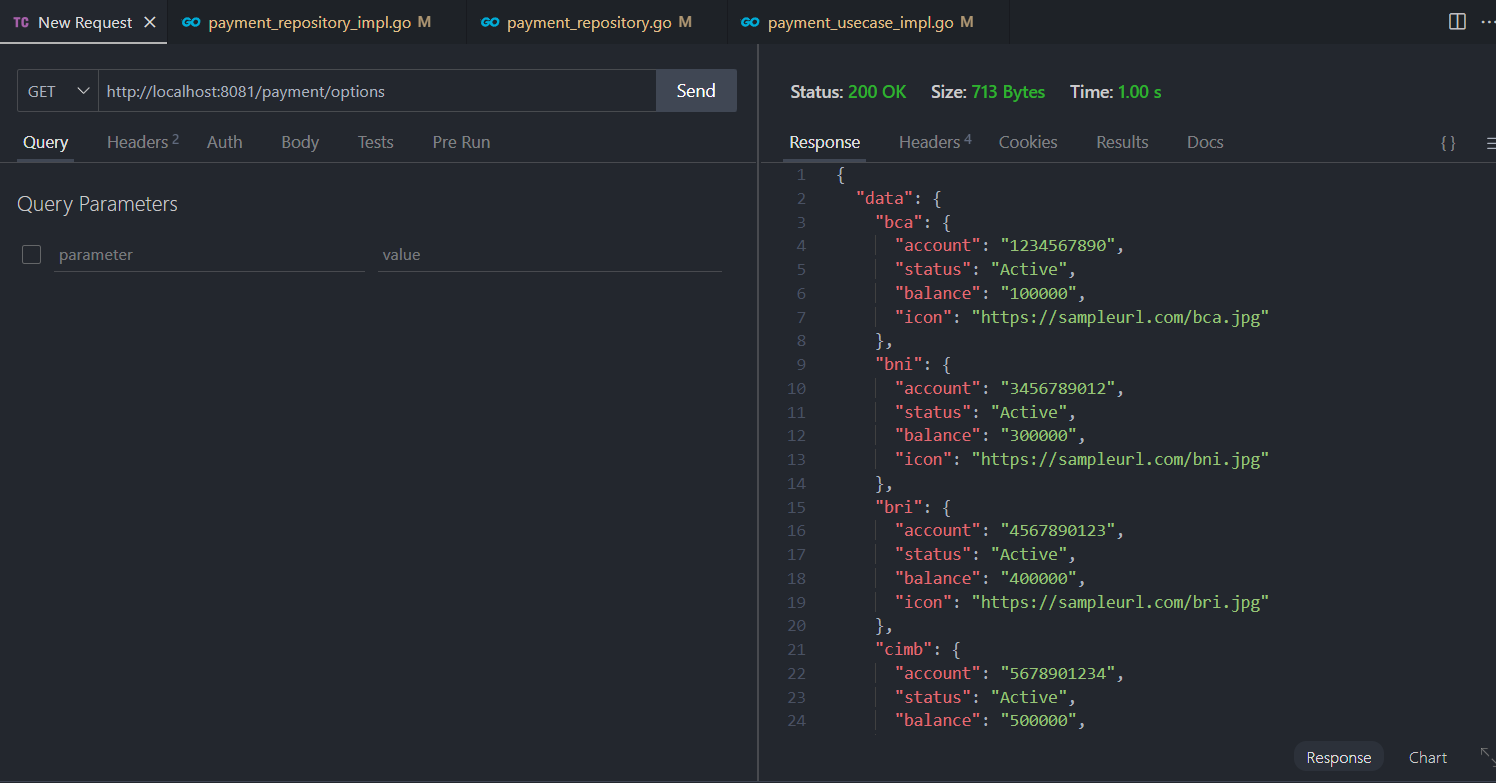
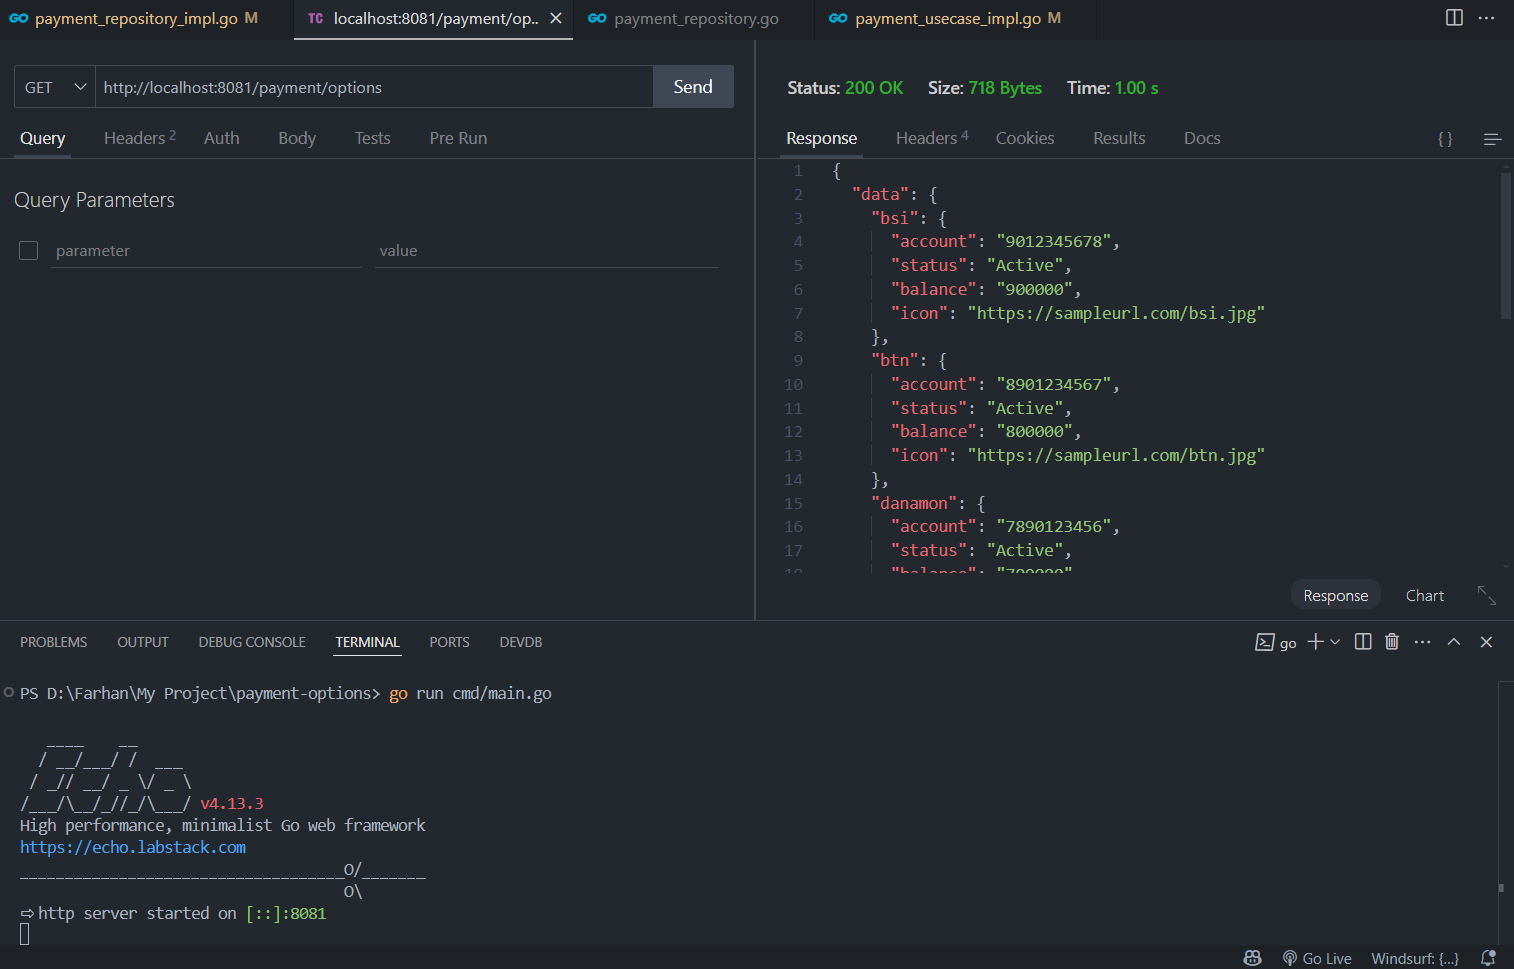
perbaikan

diff --git a/internal/repository/payment_repository_impl.go b/internal/repository/payment_repository_impl.go
@@ -12,7 +12,7 @@ func NewPaymentRepo() PaymentRepository {
 }
 
 func (r *paymentRepo) CallDanamon() models.PaymentMethod {
-	
+	time.Sleep(1 * time.Second)
 	return models.PaymentMethod{
 		Account: "7890123456",
 		Status:  "Active",
@@ -22,7 +22,7 @@ func (r *paymentRepo) CallDanamon() models.PaymentMethod {
 }
 
 func (r *paymentRepo) CallBTN() models.PaymentMethod {
-	
+	time.Sleep(1 * time.Second)
 	return models.PaymentMethod{
 		Account: "8901234567",
 		Status:  "Active",
@@ -32,7 +32,7 @@ func (r *paymentRepo) CallBTN() models.PaymentMethod {
 }
 
 func (r *paymentRepo) CallBSI() models.PaymentMethod {
-	
+	time.Sleep(1 * time.Second)
 	return models.PaymentMethod{
 		Account: "9012345678",
 		Status:  "Active",
@@ -42,7 +42,7 @@ func (r *paymentRepo) CallBSI() models.PaymentMethod {
 }
 
 func (r *paymentRepo) CallMega() models.PaymentMethod {
-	
+	time.Sleep(1 * time.Second)
 	return models.PaymentMethod{
 		Account: "0123456789",
 		Status:  "Active",
@@ -52,7 +52,7 @@ func (r *paymentRepo) CallMega() models.PaymentMethod {
 }
 
 func (r *paymentRepo) CallOCBC() models.PaymentMethod {
-	
+	time.Sleep(1 * time.Second)
 	return models.PaymentMethod{
 		Account: "1123456789",
 		Status:  "Active",
@@ -62,7 +62,7 @@ func (r *paymentRepo) CallOCBC() models.PaymentMethod {
 }
 
 func (r *paymentRepo) CallMaybank() models.PaymentMethod {
-	
+	time.Sleep(1 * time.Second)
 	return models.PaymentMethod{
 		Account: "1223456789",
 		Status:  "Active",

diff --git a/internal/usecase/payment_usecase_impl.go b/internal/usecase/payment_usecase_impl.go
@@ -3,7 +3,7 @@ package usecase
 import (
 	"payment-options/internal/models"
 	"payment-options/internal/repository"
-	"sync"
+	/* "sync" */
 )
 
 type paymentUsecase struct {
@@ -15,7 +15,7 @@ func NewPaymentUsecase(r repository.PaymentRepository) PaymentUsecase {
 }
 
 func (u *paymentUsecase) GetPaymentOptions() (map[string]models.PaymentMethod, error) {
-	var wg sync.WaitGroup
+	/* var wg sync.WaitGroup
 	result := make(map[string]models.PaymentMethod)
 	mu := sync.Mutex{}
 
@@ -69,6 +69,14 @@ func (u *paymentUsecase) GetPaymentOptions() (map[string]models.PaymentMethod, e
 		mu.Unlock()
 	}()
 
-	wg.Wait()
+	wg.Wait() */
+	result := make(map[string]models.PaymentMethod)
+
+	result["danamon"] = u.repo.CallDanamon()
+	result["btn"] = u.repo.CallBTN()
+	result["bsi"] = u.repo.CallBSI()
+	result["mega"] = u.repo.CallMega()
+	result["ocbc"] = u.repo.CallOCBC()
+	result["maybank"] = u.repo.CallMaybank()
 	return result, nil
 }
